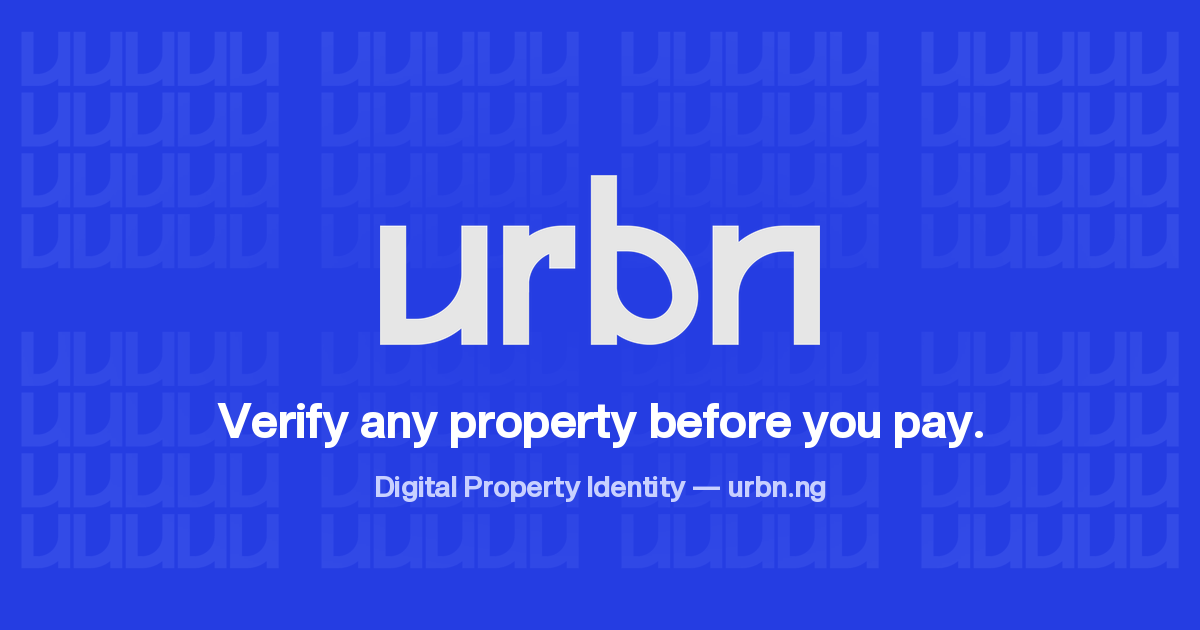
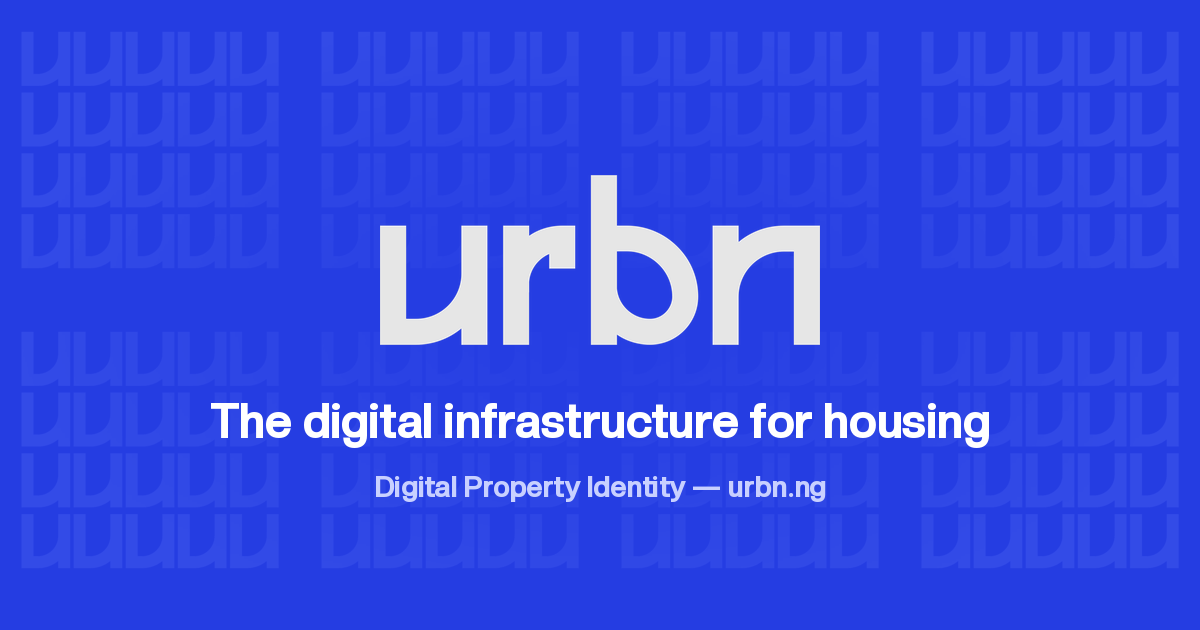
Adopt brand line "The digital infrastructure for housing"
Replaces the verify-before-you-pay line in the homepage title and
description, site tagline and description, footer, web manifest, OG image
and its alt text. Feature copy about checking a DPI before paying stays.

Claude-Session: https://claude.ai/code/session_01X796FL4dk5Hyj6VsdJoQ8b

Changed region(s): [[0.185, 0.6333, 0.8325, 0.7238]]

diff --git a/app/lib/site.ts b/app/lib/site.ts
@@ -5,9 +5,9 @@ export const SITE = {
   name: "Urbn",
   legalName: "Urbn Technologies Ltd", // TODO: confirm registered company name
   url: import.meta.env.VITE_SITE_URL ?? "https://urbn.ng",
-  tagline: "Nigeria's Digital Property Identity platform",
+  tagline: "The digital infrastructure for housing",
   description:
-    "Urbn gives every property in Nigeria a permanent, verifiable Digital Property Identity (DPI). Verify any property in seconds, find verified homes, and rent or buy without blind trust.",
+    "Urbn is the digital infrastructure for housing in Nigeria. Every property gets a permanent, verifiable Digital Property Identity (DPI), so you can verify homes in seconds, find verified listings, and rent or buy without blind trust.",
   email: "hello@urbn.ng", // TODO: confirm inbox
   locale: "en_NG",
   twitter: "@urbn_hq",

diff --git a/app/routes/home.tsx b/app/routes/home.tsx
@@ -20,9 +20,9 @@ import type { Route } from "./+types/home";
 
 export const meta: Route.MetaFunction = () =>
   seo({
-    title: "Urbn | Verify Any Property in Nigeria Before You Pay",
+    title: "Urbn | The Digital Infrastructure for Housing",
     description:
-      "Urbn gives every property a permanent Digital Property Identity (DPI). Check any home in seconds, find verified listings in Ibadan, and rent or buy without blind trust.",
+      "Urbn is the digital infrastructure for housing in Nigeria. Every property gets a permanent Digital Property Identity (DPI), so anyone can verify a home in seconds and rent or buy without blind trust.",
     path: "/",
     jsonLd: faqJsonLd(HOME_FAQS),
   });

diff --git a/app/components/footer.tsx b/app/components/footer.tsx
@@ -12,7 +12,7 @@ export function Footer() {
             <Logo className="w-36 text-white" />
           </Link>
           <p className="mt-6 max-w-xs text-[15px] leading-relaxed">
-            Nigeria's Digital Property Identity platform. Get updates as we launch in new cities, plus early
+            The digital infrastructure for housing. Get updates as we launch in new cities, plus early
             access when we do.
           </p>
           <SocialLinks className="mt-6 -ml-2.5 text-neutral-400" />

diff --git a/app/lib/seo.ts b/app/lib/seo.ts
@@ -21,7 +21,7 @@ export function seo({
   description,
   path,
   image = SITE.ogImage,
-  imageAlt = "Urbn — Digital Property Identity",
+  imageAlt = "Urbn: The digital infrastructure for housing",
   type = "website",
   noindex = false,
   jsonLd,

diff --git a/scripts/build-social.py b/scripts/build-social.py
@@ -38,7 +38,7 @@ icon(512, 0.3).save(PUB / "icons/icon-maskable-512.png")
 manifest = {
     "name": "Urbn: Digital Property Identity",
     "short_name": "Urbn",
-    "description": "Verify any property in Nigeria and find verified homes.",
+    "description": "The digital infrastructure for housing.",
     "start_url": "/",
     "display": "standalone",
     "background_color": "#000000",
@@ -75,5 +75,5 @@ def og(name, tagline):
     d.text(((W - d.textlength(t2, font=small)) / 2, 470), t2, font=small, fill=(200, 208, 255))
     im.save(PUB / "og" / f"{name}.png", optimize=True)
 
-og("default", "Verify any property before you pay.")
+og("default", "The digital infrastructure for housing")
 print("ok")
